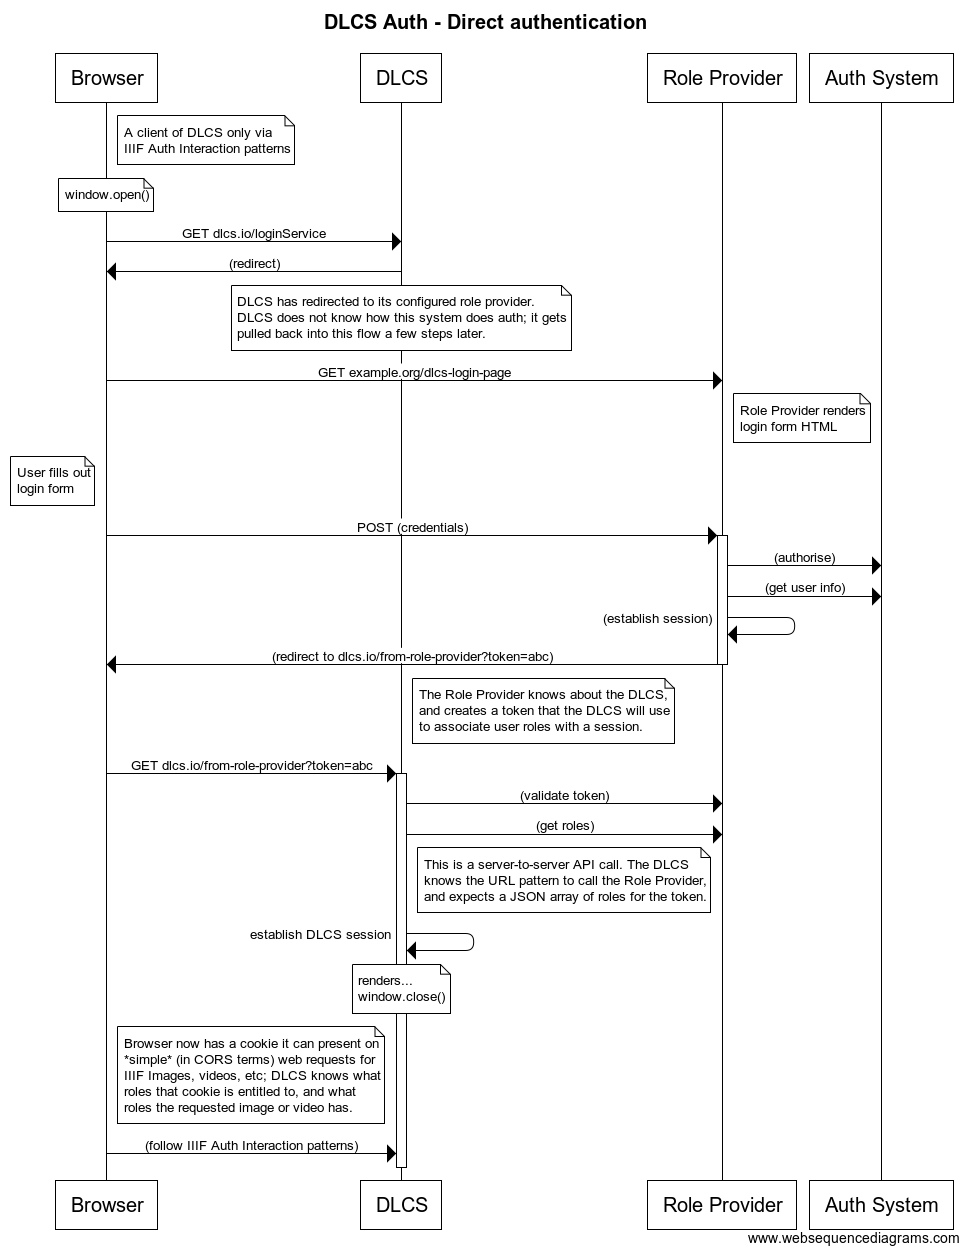
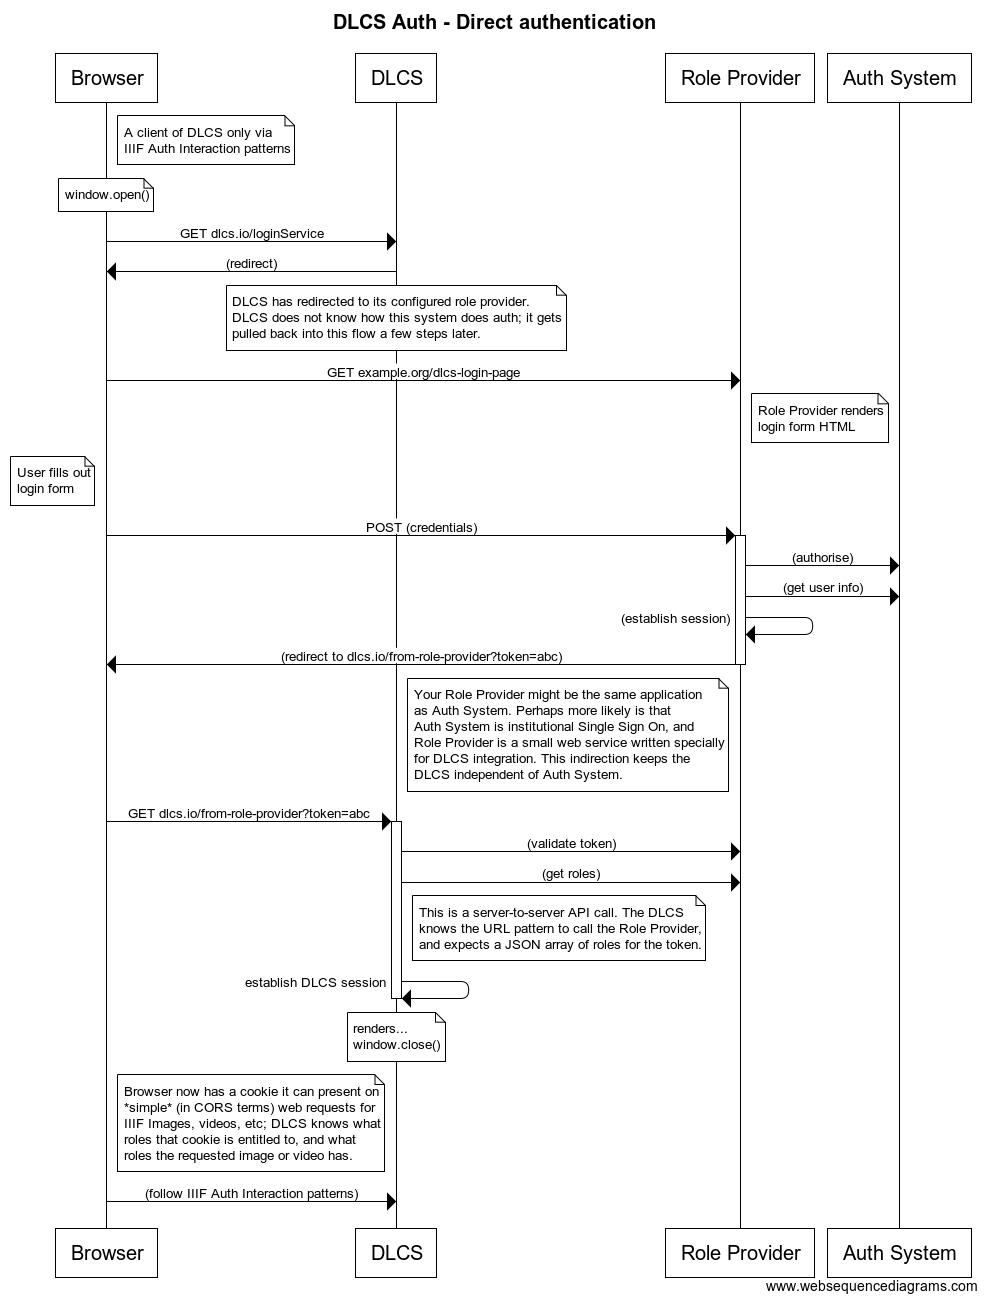
Add auth SSO flow

diff --git a/docs/rfcs/005-Access-Control.md b/docs/rfcs/005-Access-Control.md
@@ -9,7 +9,7 @@ This means the IIIF Auth API, in its current and future versions, rather than th
 
 The DLCS is the system serving the assets, therefore it must establish a session (e.g., by using cookies, or other means) for the user.
 
-When images are registered, they are given a set of *roles*. These are usually opaque URIs as far as the DLCS is concerned. An open image has no roles, anyone can see it.
+When assets are registered, they are given a set of *roles*. These are usually opaque URIs as far as the DLCS is concerned. An open, public asset has no roles, anyone can see it. An asset might have many roles; if the user has any of them, they can see the image.
 
 The DLCS can enforce the IIIF *Clickthrough* pattern without further integration, as it does not need to know the identity of the user. It just needs to establish a session for them, and ensure they have accepted any clickthrough terms.
 
@@ -19,15 +19,29 @@ The system that knows who the user is, and can tell the DLCS what roles the user
 
 This protocol is not dependent on the IIIF Auth API, and the DLCS can accomodate future changes in that spec, or support the provision of alternative auth arrangements, using the role-acquisition integration described here.
 
-## 
+## The Role Provider
 
-Role provider configuration - by space? By individual image? By customer?
+The Role Provider is the bridge between the DLCS and one or more sources of user information, authentication, and authorisation. The DLCS arranges for the user to establish a session with the Role Provider, a web application. The Role Provider can tell the DLCS what roles that user has. 
 
-In this first example, the Role Provider application presents the login form, takes the user's credentials, and queries some store of user data with those credentials. This is a simpler flow, but may not be how a large institional single sign on system works.
+It doesn't matter what those roles mean, or how the Role Provider decided they were appropriate for the user. They might be fixed - this user is faculty, so can see images that require the "faculty" role. Or it might be transient - this user is in the "temporary-lesson" role for two hours only. The DLCS doesn't need to know any of these details, they are delegated to the Role Provider.
+
+The Role Provider doesn't authorise requests. It gives the DLCS the information it needs to authorise requests. The DLCS talks to the role provider to establish a session, but thereafter can authorise requests autonomously, in the Orchestrator module, for the lifetime of the DLCS session. This is essential for performance, especially for tile requests.
+
+(TODO) Role provider configuration - by space? By individual image? By customer?
+
+In this first example, the Role Provider application presents the login form, takes the user's credentials, and queries some store of user data with those credentials. This is a simpler flow, but may not be how a large institutional Single Sign On (SSO) system works.
 
 ![Direct auth](sequence-src/auth-direct.png "Direct Auth")
 
-The second flow assumes that the role provider application is a client service of an insitutional single sign on system (just as the library catalogue, or e-Learning platforms, might be). In this case the Role Provider doesn't present a login UI, but it still renders HTTP responses that redirect or close windows.
+In the above sequence, the Role Provider is able to authenticate a user, and find out their permissions. This might involve looking up user records in a database, but it could be other mechanisms - e.g., IP address, filling out a survey, or indeed anything. The Role Provider is a web application that maintains a session (probably using cookies). In the simple case, the user sees a login page rendered by the Role Provider application.
+
+(Note for clarity - at Wellcome, the Role Provider application is the DDS).
+
+This scenario is flexible for many scenarios, but an extra layer of indirection is required for a typical institutional SSO system, where we can't expect the SSO system itself to also implement the DLCS integration. 
+
+The second flow assumes that the role provider application is a client service of an insitutional single sign on system (just as the library catalogue, or e-Learning platforms, might be). In this case the Role Provider doesn't present a login UI, but it still renders HTTP responses that redirect or close windows. It's a stepping stone to the single sign on system's login screen, and is the return location after the user logs in there. The DLCS still talks only to the Role Provider, but the Role Provider delegates auth to SSO.
+
+In this example the CAS protocol is shown, but the indirection here means that any SSO mechanism can work.
 
 ![Auth with SSO](sequence-src/auth-sso.png "Auth with SSO")
 
@@ -37,4 +51,4 @@ The second flow assumes that the role provider application is a client service o
 
 ### Session identity
 
-Although the DLCS doesn't need to know who the user is to enforce access control (just their roles), it might still be useful to include some (probably anonymised) identity token in the user's session. This allows the DLCS to log access, and possibly later enforce quotas. The data could be reconciled by reporting outside of the DLCS.
+Although the DLCS doesn't need to know who the user is to enforce access control (just their roles), it might still be useful to use the identity token in the user's session. This allows the DLCS to log access, and possibly later enforce quotas. The data could be reconciled by reporting outside of the DLCS. It would up to external systems to keep track of the association between a user and the tokens issues on their behalf.
